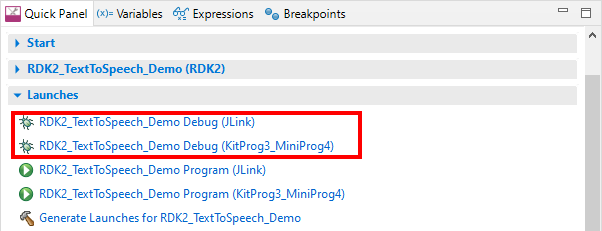
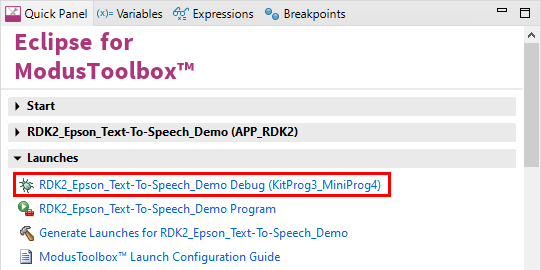
mtb 2025.04 updates.

Changed region(s): [[0.0, 0.3636, 0.7394, 1.0], [0.0, 0.0, 1.0, 0.3333], [0.9464, 0.1212, 1.0, 1.0]]

diff --git a/README.md b/README.md
@@ -8,7 +8,7 @@ This example demonstrates the Rutronik's Text-To-Speech Arduino adapter control.
 
 ## Requirements
 
-- [ModusToolbox® software](https://www.infineon.com/cms/en/design-support/tools/sdk/modustoolbox-software/) **v3.x** [built with **v3.0**]
+- [ModusToolbox® software](https://www.infineon.com/cms/en/design-support/tools/sdk/modustoolbox-software/) **v2025.4.0** [built with **v3.0**]
 
 ## Supported toolchains (make variable 'TOOLCHAIN')
 
@@ -152,7 +152,7 @@ The audio volume level is hardcoded in this code example. Please modify the isc_
 
 ### Debugging
 
-If you successfully have imported the example, the debug configurations are already prepared to use with a the KitProg3, MiniProg4, or J-link. Open the ModusToolbox perspective and find the Quick Panel. Click on the desired debug launch configuration and wait until the programming completes and the debugging starts.
+If you have successfully imported the example, the debug configurations are already prepared to use with the KitProg3, MiniProg4. Open the ModusToolbox perspective and find the Quick Panel. Click on the desired debug launch configuration and wait until the programming completes and the debugging starts.
 
 <img src="images/tts_debug.png" style="zoom:100%;" />
 
